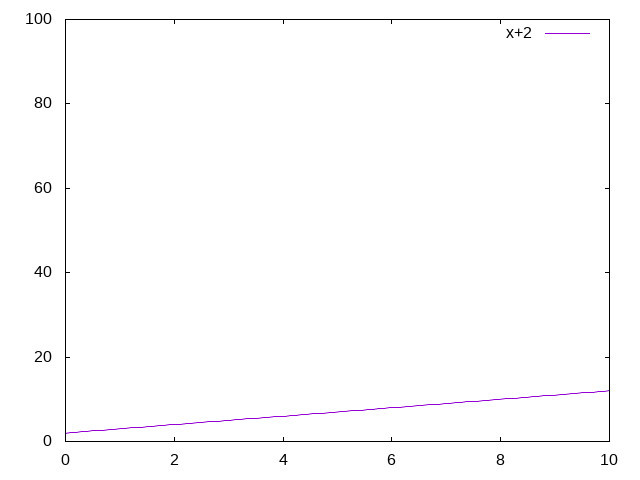
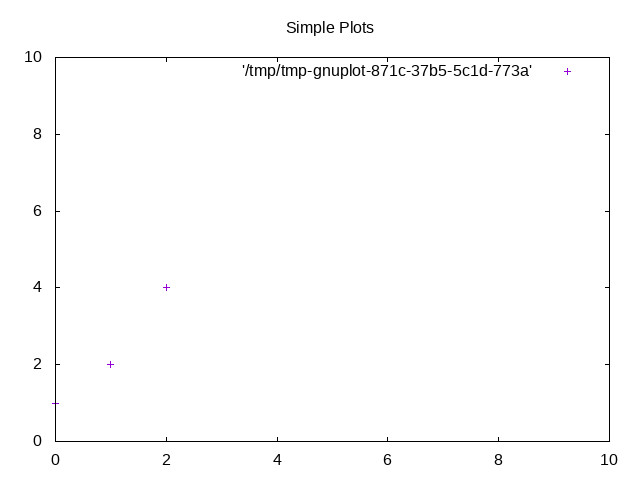
ci siamo

diff --git a/plot.cpp b/plot.cpp
@@ -1,11 +1,20 @@
 #include <vector>
 
 #include "gnuplot-iostream.h"
+#include "newSIR.hpp"
 
 int main() {
   Gnuplot g1;
+
+  std::vector<double> prova{1, 2, 4};
   g1 << "set terminal jpeg\n";
   g1 << "set output 'prova.jpeg'\n";
-  g1 << "set xrange [0:10] \n set yrange [0:100]\n";   // 10 numero dei giorni di simulazione
-  g1 << "plot x+2";
+  // g1 << "set xrange [0:10] \n set yrange [0:100]\n";   // 10 numero dei giorni di simulazione
+  // g1 << "plot x+2";
+  //g1 << "set key fixed left top vertical Right noreverse enhanced autotitle box lt black linewidth 1.000 dashtype solid\n";
+  g1 << "set title 'Simple Plots'\n";
+  g1 << "set xrange [0:10] \n";
+  g1 << "set yrange [0:10] \n";
+  g1 << "plot" << g1.file1d(prova) << "with points\n";
+
 }
